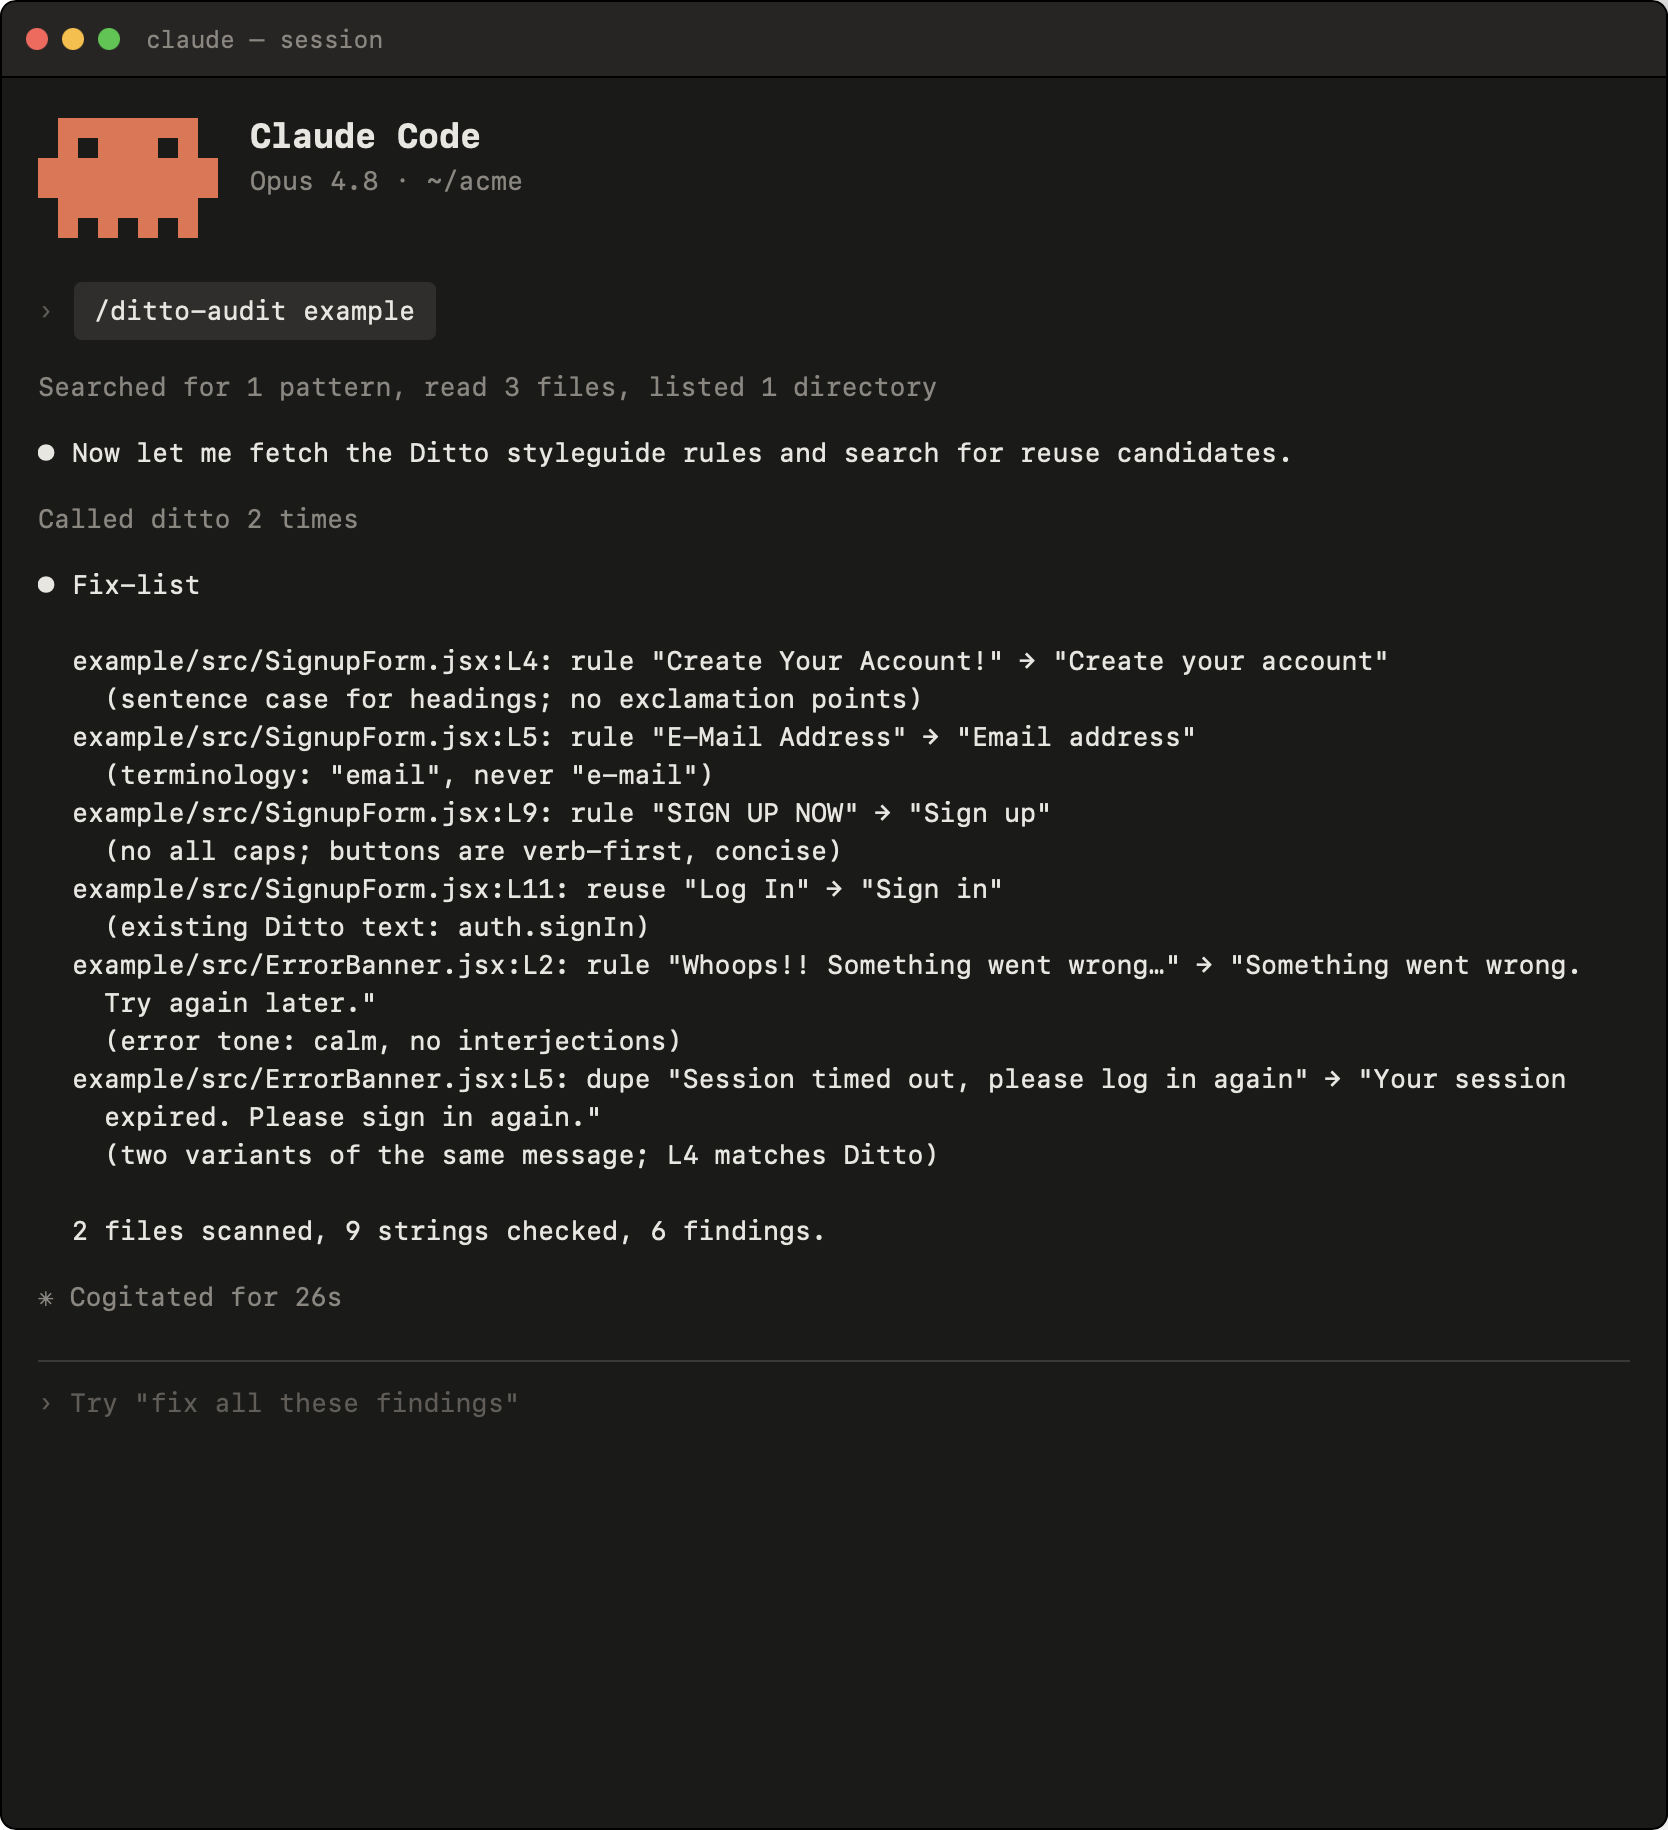
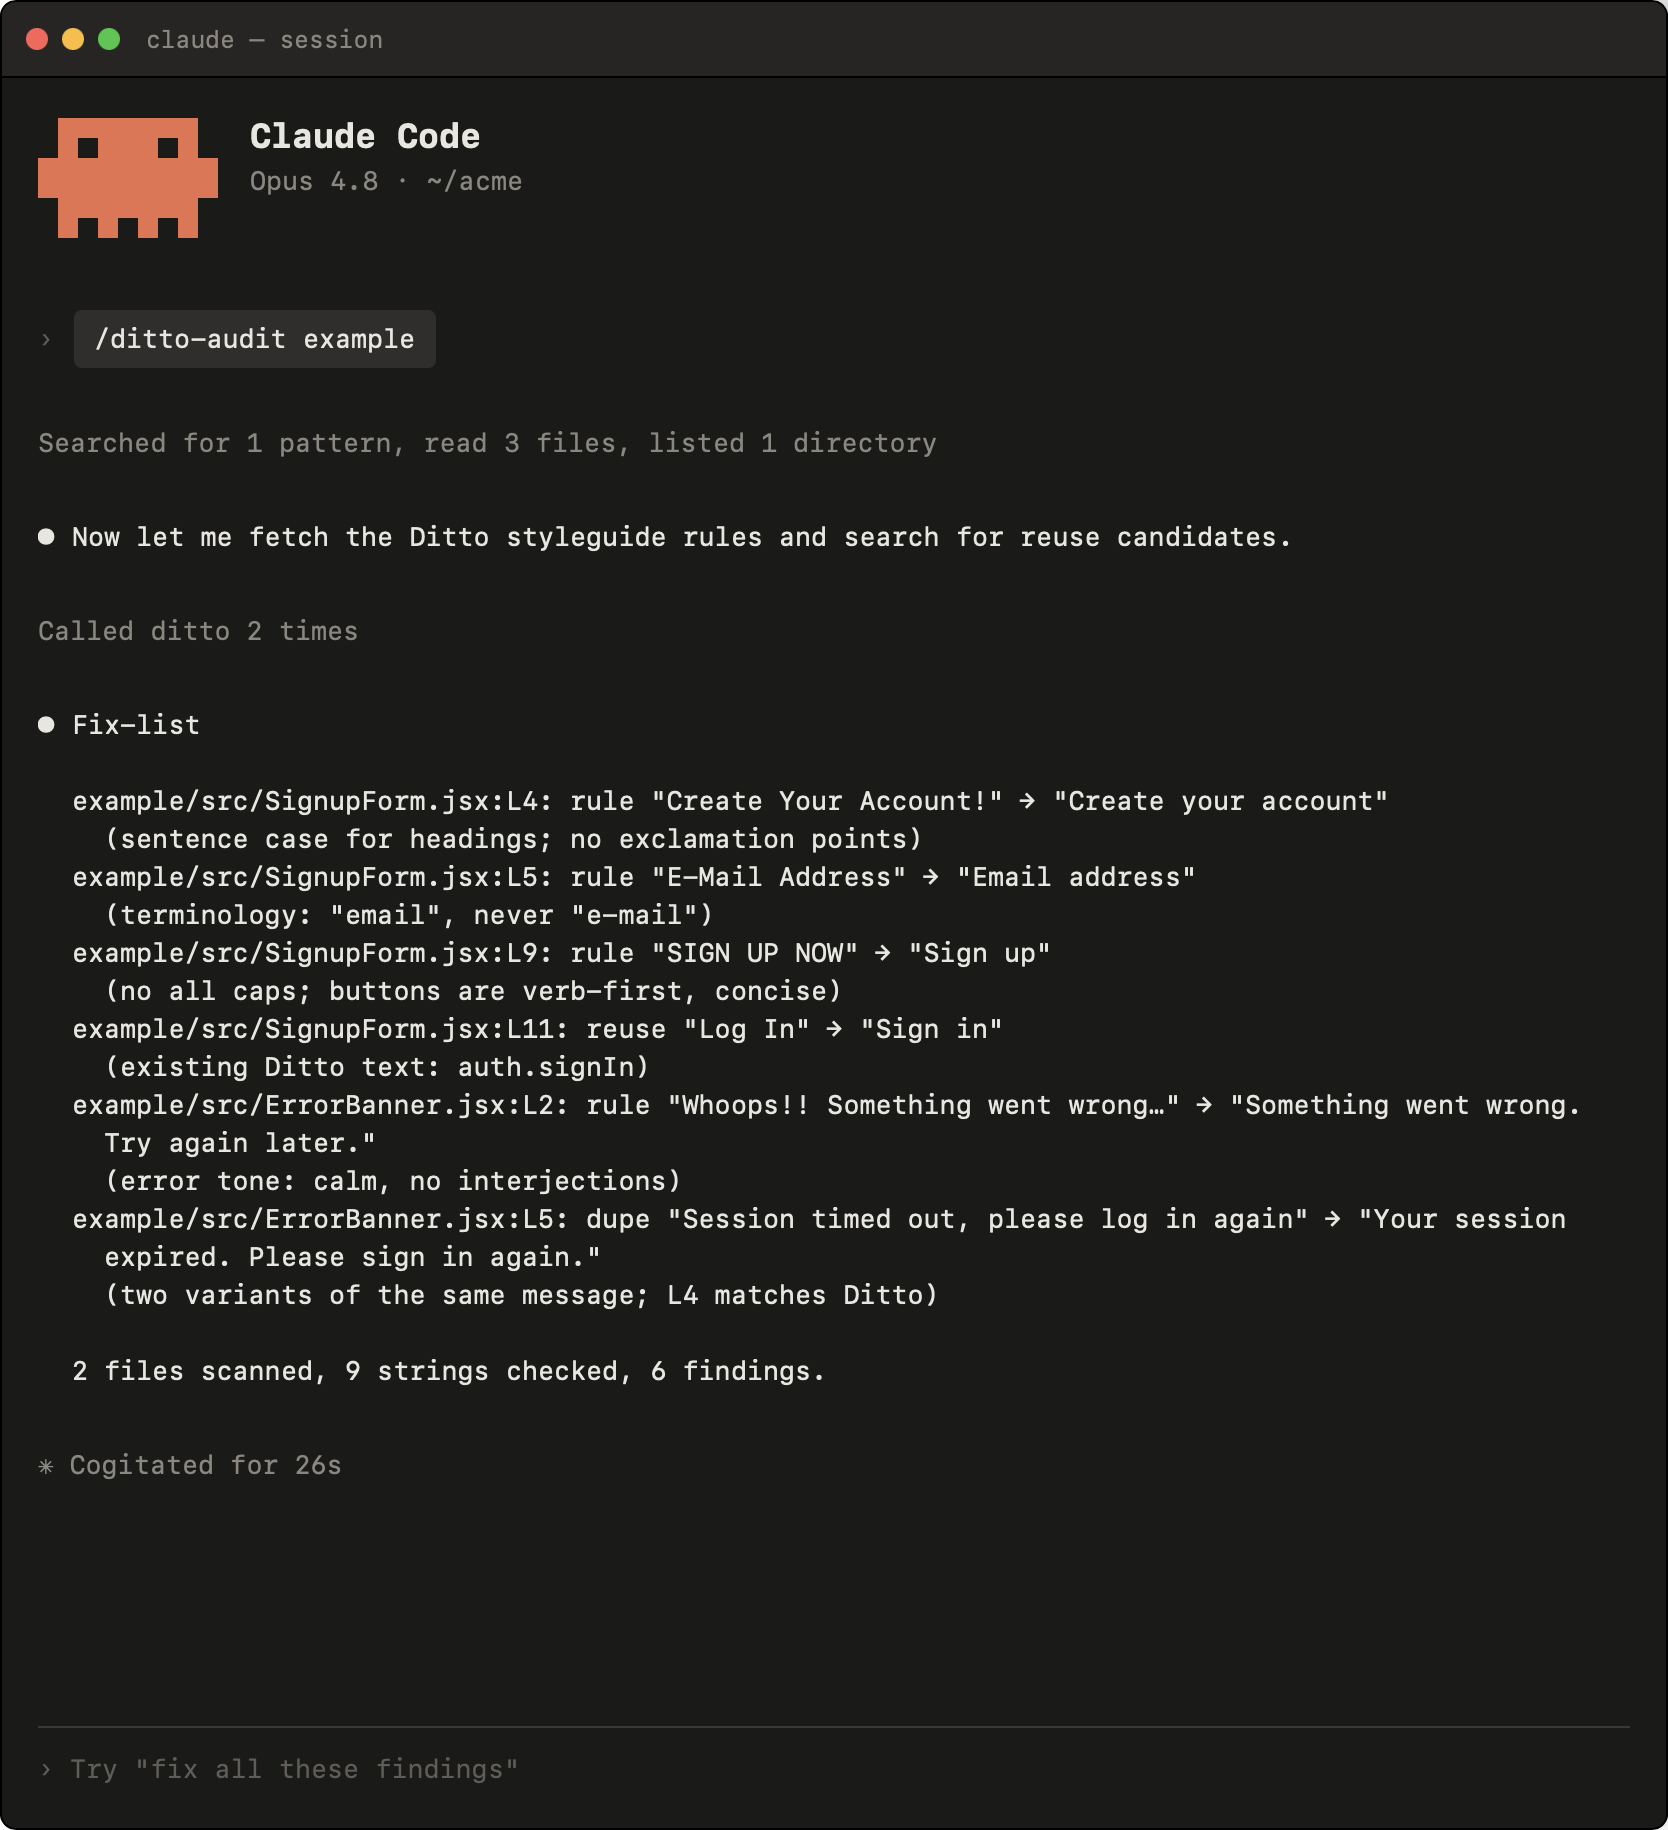
update images

diff --git a/README.md b/README.md
@@ -40,5 +40,5 @@ From this repo:
 And `/ditto-review` does the same for just your working diff, useful right
 before a commit:
 
-![ditto-review running on a working diff](assets/ditto-review.svg)
+![ditto-review running on a working diff](assets/ditto-review.png)
 